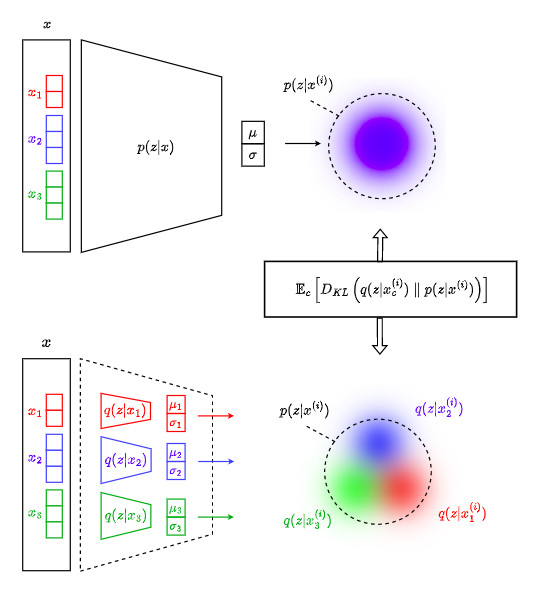
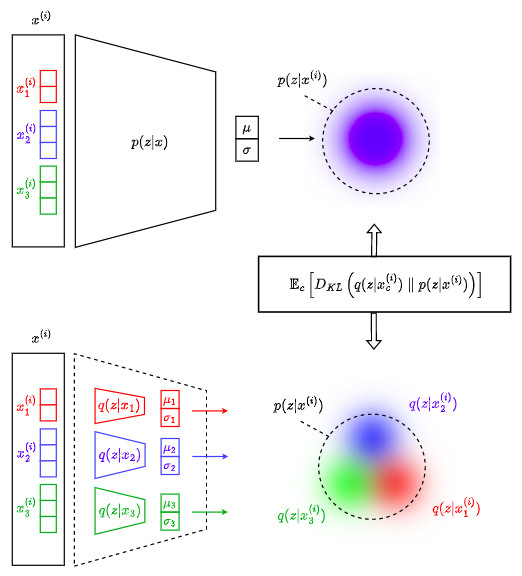
add the first part on the presentation of the VAE formalism

diff --git a/collections/_posts/2022-11-26-SparseMultiChannelVAE.md b/collections/_posts/2022-11-26-SparseMultiChannelVAE.md
@@ -15,17 +15,58 @@ pdf: "http://proceedings.mlr.press/v97/antelmi19a/antelmi19a.pdf"
 * Here are some (highly) useful links: [repo](https://github.com/ggbioing/mcvae), [video - slider on 1h05](https://youtube.videoken.com/embed/n5e2qNQ-h6E?tocitem=67), [slides](https://icml.cc/media/Slides/icml/2019/hallb(12-16-00)-12-17-00-5118-sparse_multi-ch.pdf)
 * This post has been jointly created by Olivier Bernard, Romain Deleat-Besson and Nathan Painchaud.
 
+&nbsp;
+
 # Highlights
 
 * The objective of this paper is to develop a formalism to handle with heterogenous data through VAE formulation.
-* This is achieved through two major innovations: i) Variational distribution of each channel/modality/type of data are constrained to a common target prior in the latent space to bring interpretability; ii) Parsimonious latent representations are enforced by variational dropout to make the method computationally advantageous and more easily interpretable.
+* This is achieved through two major innovations: 
 
+1) Variational distributions of each channel/modality/type of data are constrained to a common target prior in the latent space to bring interpretability;
+> this can be seen as a process of alignment 
+
+2) Parsimonious latent representations are enforced by ***variational dropout*** to make the method computationally advantageous and more easily interpretable.
+
+&nbsp;
 
 # Method
+
+## Starting point
+
+* Observations (e.g. patient information) are composed by subsets of information called channels as follows:
+
+$$\textbf{x}=\{\textbf{x}_1,\cdots,\textbf{x}_C\}$$ 
+
+$$\quad \quad$$ where each $$\textbf{x}_c$$ is a $$d_c$$-dimensional vector.
+
+* $$\textbf{z}$$ is a $$l$$-dimensional latent variable which is supposed to be commonly shared by each $$\textbf{x}_c$$
+
+* Every channel brings by itself some information about the latent variable distribution, the posterior $$p(\textbf{z} \vert \textbf{x})$$ can thus be approximated through the individual distributions $$q(\textbf{z} \vert \textbf{x}_c)$$
+
+* Since each channel provides a different approximation, each $$q(\textbf{z} \vert \textbf{x}_c)$$ can be constrained to be as close as possible to the target posterior distribution by minimizing the following expression:
+
+$$\mathbb{E}_{c}[D_{KL}\left( q(\textbf{z} \vert \textbf{x}_c) \parallel p(\textbf{z} \vert \textbf{x}_1,\cdots,\textbf{x}_C)\right)]$$
+
+where $$\mathbb{E}_{c}$$ is the average over channels computed empirically.
+
+The following figure illustrates the underlying concept:
 
 ![](/collections/images/smcvae/modeling_encoder_side.jpg)
 
 &nbsp;
+
+The minimization of the above equation is equivalent to the maximization of the following Evidence Lower BOund - ELBO (the corresponding demonstration is given in the appendix of this post):
+
+$$\mathcal{L} = \mathbb{E}_{c}\left[\mathbb{E}_{\textbf{z} \sim q(\textbf{z} \vert \textbf{x}_c)}[log\left(p(\textbf{x} \vert \textbf{z})\right)] - D_{KL}\left( q(\textbf{z} \vert \textbf{x}_c) \parallel p(\textbf{z})\right) \right]$$
+
+* Making the hypothesis that every channels is conditionally independent from all others given $$\textbf{z}$$, we have:
+
+$$p(\textbf{x} \vert \textbf{z})=\prod_{i=1}^{C}p(\textbf{x}_i \vert \textbf{z})$$
+
+$$\mathcal{L}$$ can thus be rewritten as:
+
+$$\mathcal{L} = \mathbb{E}_{c}\left[\mathbb{E}_{\textbf{z} \sim q(\textbf{z} \vert \textbf{x}_c)}\left[\sum_{i=1}^{C}log\left(p(\textbf{x}_i \vert \textbf{z})\right)\right] - D_{KL}\left( q(\textbf{z} \vert \textbf{x}_c) \parallel p(\textbf{z})\right) \right]$$
+
 
 # Appendix
 
@@ -73,7 +114,7 @@ $$log\left(p(\textbf{x})\right) + \mathbb{E}_{c}\left[D_{KL}\left( q(\textbf{z} 
 
 &nbsp;
 
-Finally, this last equation can be rewritten as:
+This last equation can be rewritten as:
 
 $$\mathbb{E}_{c}[D_{KL}( q(\textbf{z} \vert \textbf{x}_c) \parallel p(\textbf{z} \vert \textbf{x}))] + \mathcal{L}= log\left(p(\textbf{x})\right)$$
 
